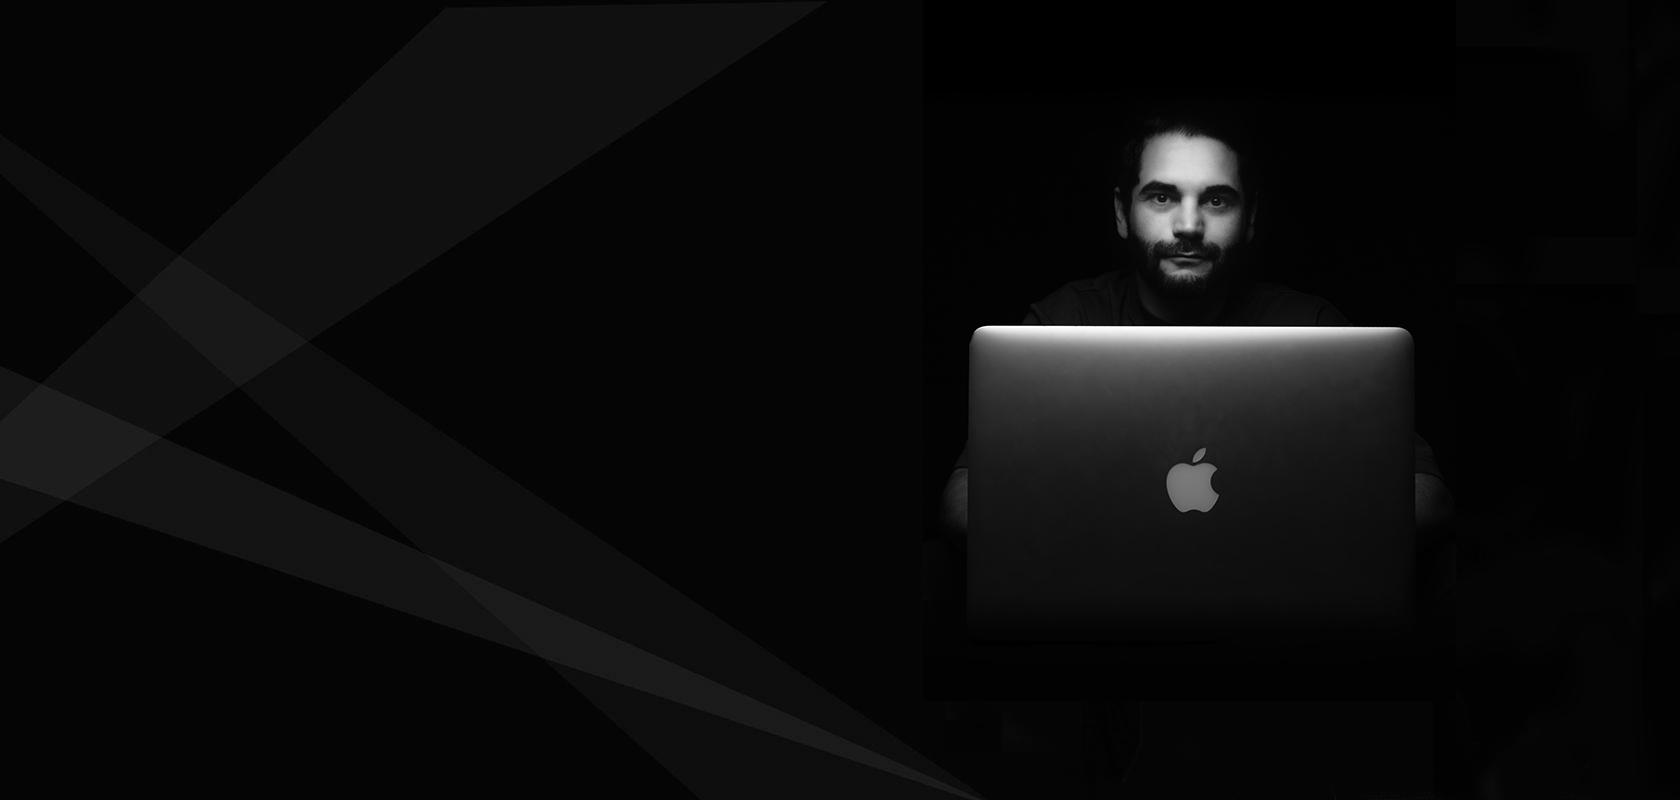
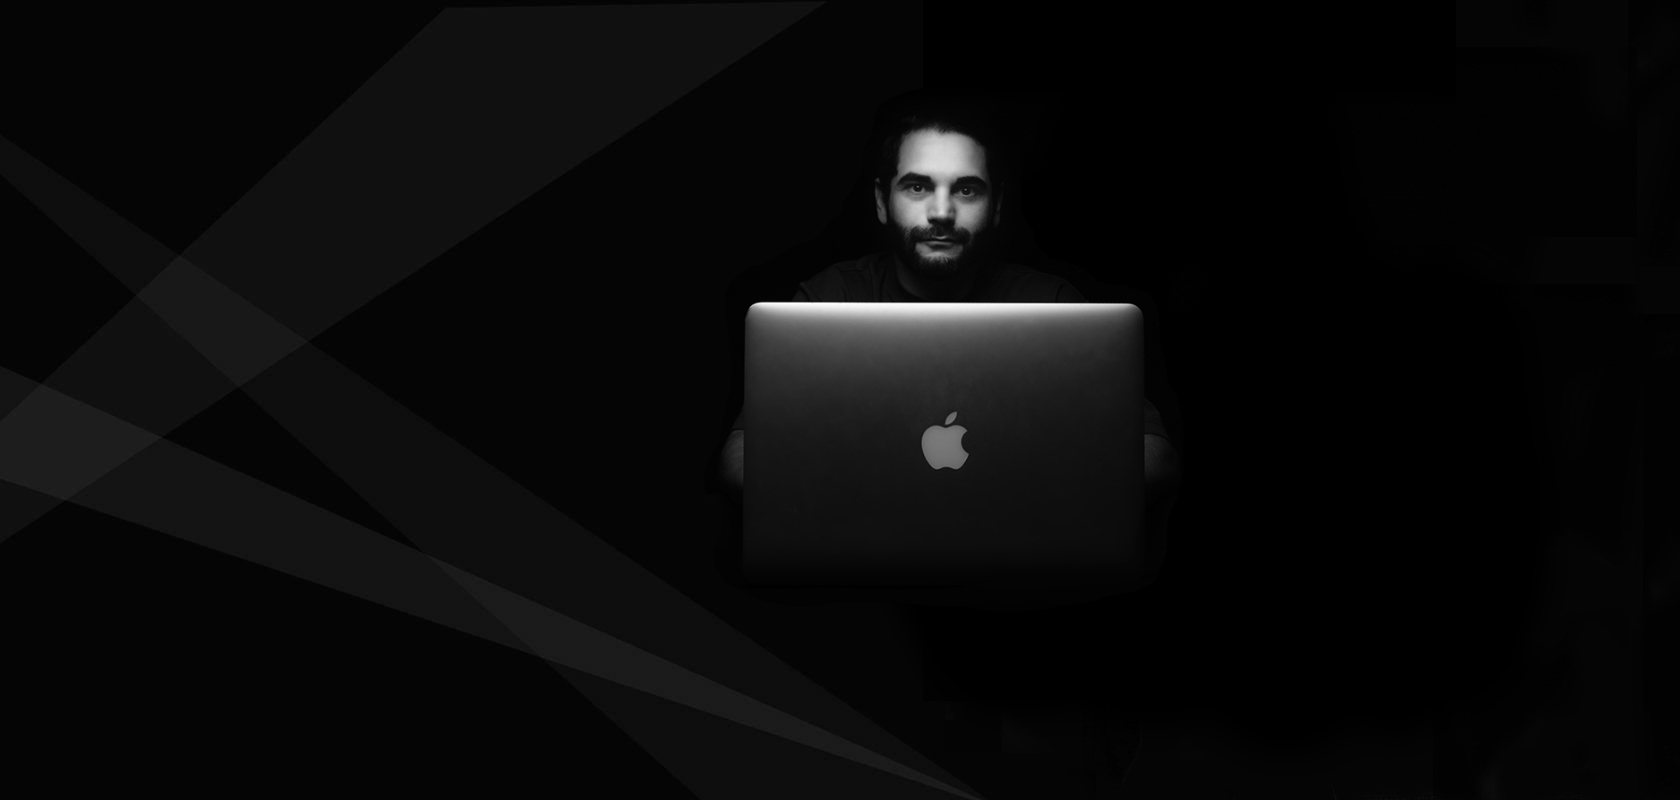
version

diff --git a/porfolio_Leger_Eric/index.html b/porfolio_Leger_Eric/index.html
@@ -4,6 +4,7 @@
 <head>
     <meta charset="UTF-8">
     <meta name="viewport" content="width=device-width, initial-scale=1.0">
+    <meta name="description" content="Portfolio d' Eric Leger, apprenti web devellopeur a l' ecole doranco situee a Paris">
     <title>Personal Portfolio Website Leger Eric</title>
     <link rel="stylesheet" href="assets/css/style.css">
     <link rel="stylesheet" href="https://cdnjs.cloudflare.com/ajax/libs/font-awesome/5.15.4/css/all.min.css"/>
@@ -20,7 +21,7 @@
     </div>
     <nav class="navbar">
         <div class="max-width">
-            <div class="logo"><a href="#"><i class="fas fa-laptop-code"></i>Portfo<span>lio.</span></a></div>
+            <div class="logo"><a href="index.html"><i class="fas fa-laptop-code"></i>Portfo<span>lio.</span></a></div>
             <ul class="menu">
                 <li><a href="#home" class="menu-btn">Accueil</a></li>
                 <li><a href="#about" class="menu-btn">&Agrave propos</a></li>
@@ -57,7 +58,7 @@
                 </div>
                 <div class="column right">
                     <div class="text">Je me pr&eacutenomme Eric, je <span class="typing-2"></span></div>
-                    <p>Bienvenue, sur mon portfolio ! Comme vous le savez deja je suis Eric ! je suis eleve a l' ecole DORANCO en developpement WEB MULTIMEDIA et a la recherche d' un stage dans ce domaine.</p>
+                    <p>Bienvenue, sur mon portfolio ! Comme vous le savez deja je suis Eric ! je suis eleve a l' ecole DORANCO en developpement WEB MULTIMEDIA et a la recherche d' un stage dans ce domaine pour la p&eacuteriode du 3 janvier au 11 f&eacutevrier 2022.</p>
                     <a  href="./assets/files/leger_eric_cv.pdf" download class="download-btn" >T&eacutel&eacutecharger mon CV<i class="fa fa-download"></i></a>
                 </div>
             </div>
@@ -101,7 +102,7 @@
             <h2 class="title">D&eacuteveloppement</h2>
             <div class="skills-content">
                 <div class="column left">
-                    <div class="text">Ou en suis je ?</div>
+                    <div class="text">O&ugrave en suis je ?</div>
                     <p>Le monde du d&eacutevellopement, &eacutetant en perp&eacutetuelle &eacutevolution, je ne voyais pas l int&eacuteret d &eacutetablir une note se basant sur la somme de mes connaissances. J ai donc d&eacutecider d' &eacutetablir un bilan sur mon rapport avec les diff&eacuterents languages. Ces notes repr&eacutesente donc a quel point je me sens a l aise ou pas avec tel ou tel type de code, laissant donc entrevoir mes points forts, mes faiblesses mais &eacutegalement ma marge de progression. </p>
                 </div>
                 <div class="column right">

diff --git a/porfolio_Leger_Eric/assets/css/style.css b/porfolio_Leger_Eric/assets/css/style.css
@@ -165,7 +165,7 @@ section .title::after{
 /* home section styling */
 .home{
     display: flex;
-    background: url("../images/banner.jpg") no-repeat center;
+    background: url("../images/banner.jpg") no-repeat center ;
     height: 100vh;
     color: #fff;
     min-height: 500px;
@@ -648,6 +648,10 @@ footer  a:hover{
     }
     .home .home-content .text-2{
         font-size: 70px;
+    }
+    .home{
+        background: url(../images/banner768.jpg) no-repeat center;
+        background-size: cover;
     }
     .home .home-content .text-3{
         font-size: 35px;
